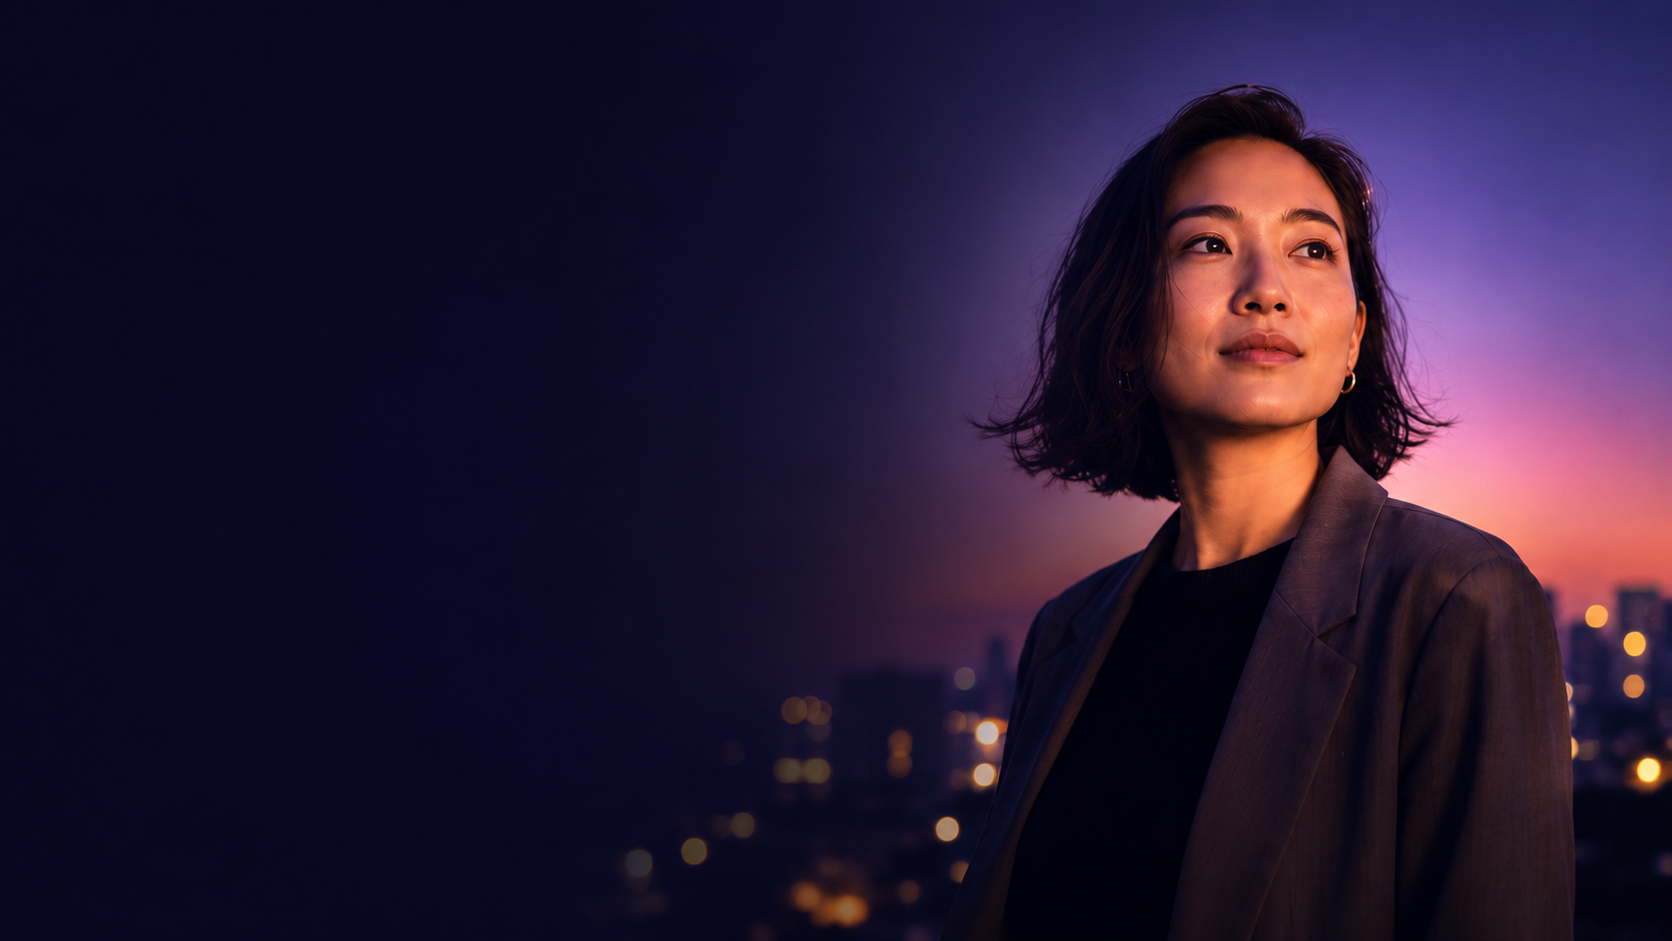
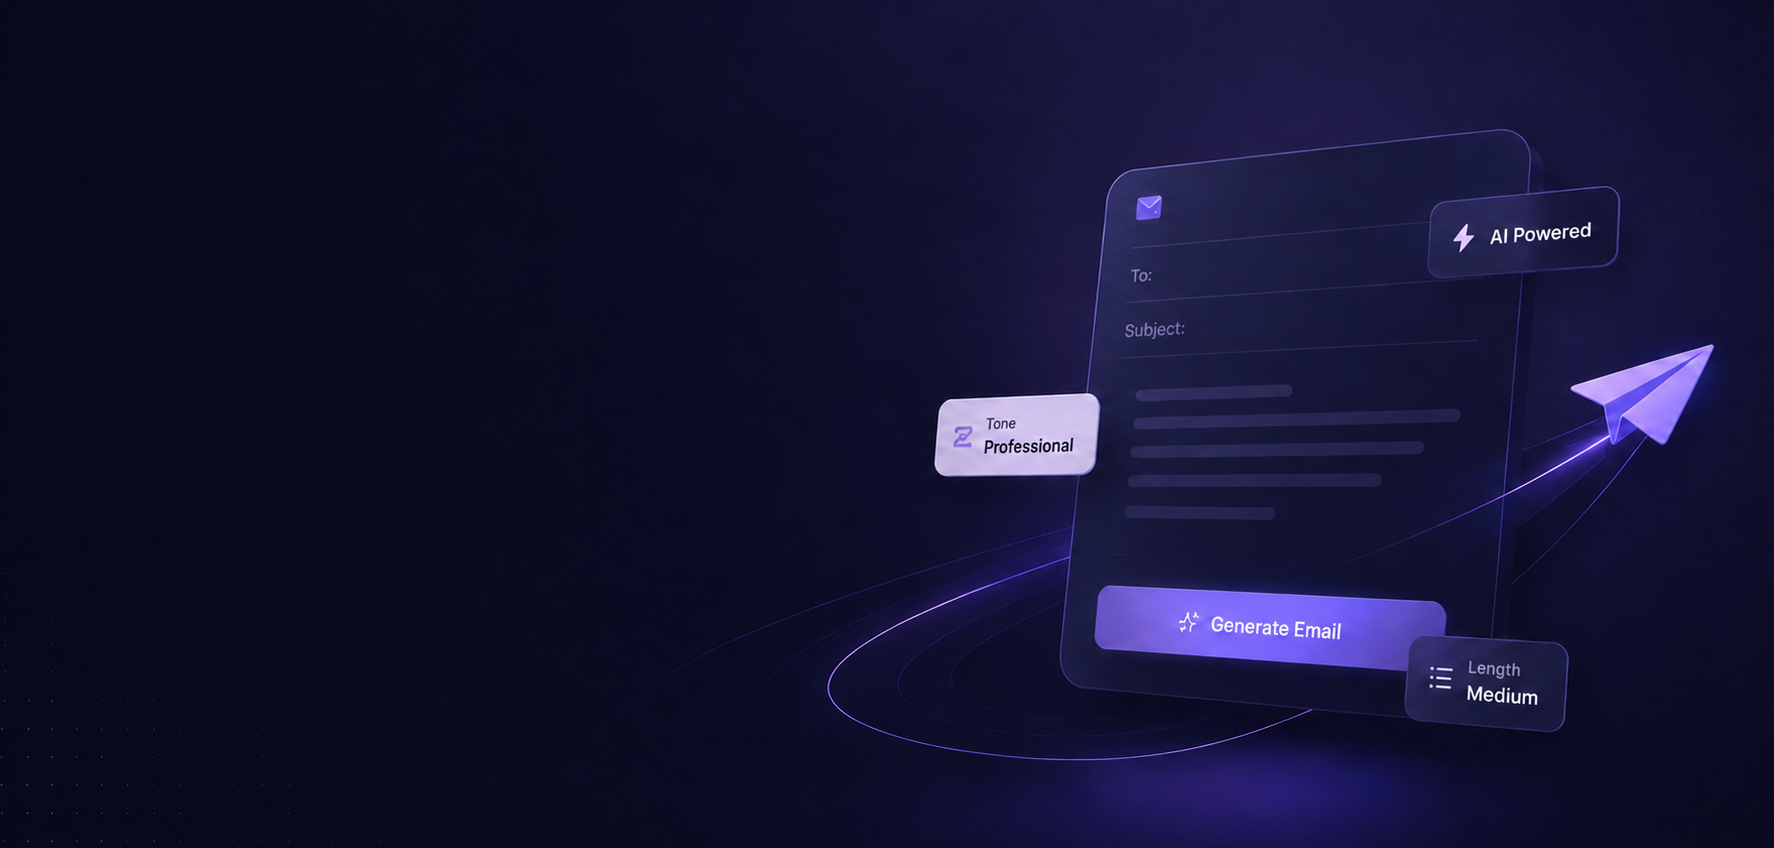
feat(landing): update FinalCTA and LandingPage components
- Revise FinalCTA layout and text for clarity and engagement.
- Adjust LandingPage image styling for better responsiveness.
- Enhance MarketingHeader and SiteHeader hover effects for consistency.

diff --git a/src/app/(pages)/(landing)/_components/final-cta.tsx b/src/app/(pages)/(landing)/_components/final-cta.tsx
@@ -22,30 +22,25 @@ export function FinalCTA({ isAuthenticated = false }: FinalCTAProps) {
           sizes="(min-width: 1024px) 1152px, 100vw"
           src="/images/cta-background.png"
         />
-        <div className="relative z-10 grid gap-8 lg:grid-cols-[1.05fr_0.95fr] lg:items-center">
-          <div>
-            <p className="text-sm font-semibold uppercase text-on-dark-mute">
-              Ready to write faster?
-            </p>
-            <h2 className="mt-4 max-w-xl text-[28px] font-[540] leading-[1.14] tracking-normal">
-              Ready to stop wrestling with a blank page?
-            </h2>
-          </div>
-          <div className="max-w-md lg:justify-self-end">
-            <p className="text-lg font-[540] leading-[1.5] text-on-dark-mute">
-              Generate better email starting points and get your message out
-              faster.
-            </p>
-            <div className="mt-7">
-              <Button
-                asChild
-                className="px-7"
-                size="lg"
-                variant="teal"
-              >
-                <Link href={ctaHref}>{ctaLabel}</Link>
-              </Button>
-            </div>
+        <div className="relative z-10 max-w-lg">
+          <p className="text-sm font-semibold uppercase text-on-dark-mute">
+            Ready to write faster?
+          </p>
+          <h2 className="mt-4 text-[clamp(28px,4vw,48px)] font-[540] leading-[0.96] tracking-[-0.02em]">
+            Create your next email in seconds
+          </h2>
+          <p className="mt-5 text-lg font-[540] leading-[1.5] text-on-dark-mute">
+            Generate polished outreach, sales, and follow-up emails with AI.
+          </p>
+          <div className="mt-8">
+            <Button asChild className="px-7" size="lg" variant="hero">
+              <Link href={ctaHref}>
+                {ctaLabel}
+                <span aria-hidden="true" className="ml-1">
+                  &rarr;
+                </span>
+              </Link>
+            </Button>
           </div>
         </div>
       </div>

diff --git a/src/components/layout/site-header.tsx b/src/components/layout/site-header.tsx
@@ -106,7 +106,7 @@ export function SiteHeader({
                 </Link>
               </Button>
               <LogoutButton
-                className={cn(isDark && "text-primary-foreground hover:bg-primary-deep")}
+                className={cn(isDark && "text-primary-foreground hover:bg-accent/15")}
                 variant={isDark ? "ghost" : "outline"}
               />
             </>
@@ -117,7 +117,7 @@ export function SiteHeader({
                   asChild
                   className={cn(
                     "px-5",
-                    isDark && "text-on-dark-mute hover:bg-primary-deep hover:text-primary-foreground",
+                    isDark && "text-on-dark-mute hover:bg-accent/15 hover:text-primary-foreground",
                   )}
                   variant={isDark ? "ghost" : "outline"}
                 >
@@ -138,7 +138,7 @@ export function SiteHeader({
           <SheetTrigger asChild>
             <Button
               aria-label="Open navigation"
-              className={cn("ml-auto shrink-0 md:hidden", isDark && "text-primary-foreground hover:bg-primary-deep")}
+              className={cn("ml-auto shrink-0 md:hidden", isDark && "text-primary-foreground hover:bg-accent/15")}
               size="icon"
               variant="ghost"
             >

diff --git a/src/app/(pages)/(landing)/_components/marketing-header.tsx b/src/app/(pages)/(landing)/_components/marketing-header.tsx
@@ -66,7 +66,7 @@ export function MarketingHeader({
                 </Link>
               </Button>
               <LogoutButton
-                className="text-on-dark-mute hover:bg-primary-deep hover:text-primary-foreground"
+                className="text-on-dark-mute hover:bg-accent/15 hover:text-primary-foreground"
                 variant="ghost"
               />
             </>
@@ -93,7 +93,7 @@ export function MarketingHeader({
           <SheetTrigger asChild>
             <Button
               aria-label="Open navigation"
-              className="text-primary-foreground hover:bg-primary-deep md:hidden"
+              className="text-primary-foreground hover:bg-accent/15 md:hidden"
               size="icon"
               variant="ghost"
             >

diff --git a/src/app/(pages)/(landing)/_components/landing-page.tsx b/src/app/(pages)/(landing)/_components/landing-page.tsx
@@ -17,7 +17,7 @@ export function LandingPage({ isAuthenticated = false }: LandingPageProps) {
         <div className="relative overflow-hidden bg-primary">
           <Image
             alt=""
-            className="object-cover object-[63%_top]"
+            className="object-contain object-right"
             fill
             priority
             sizes="100vw"